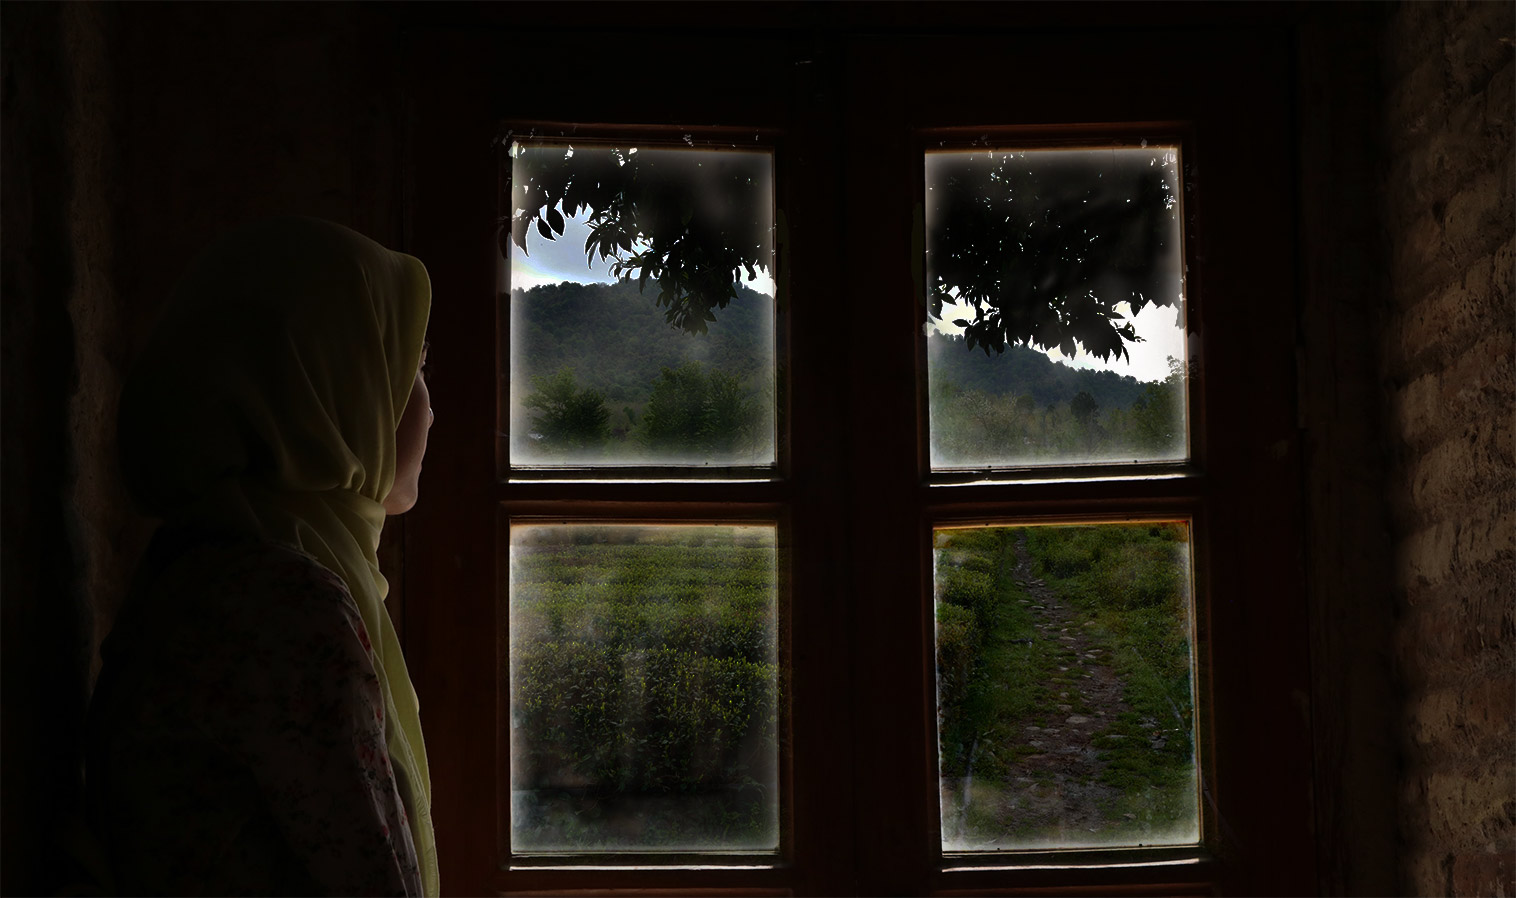
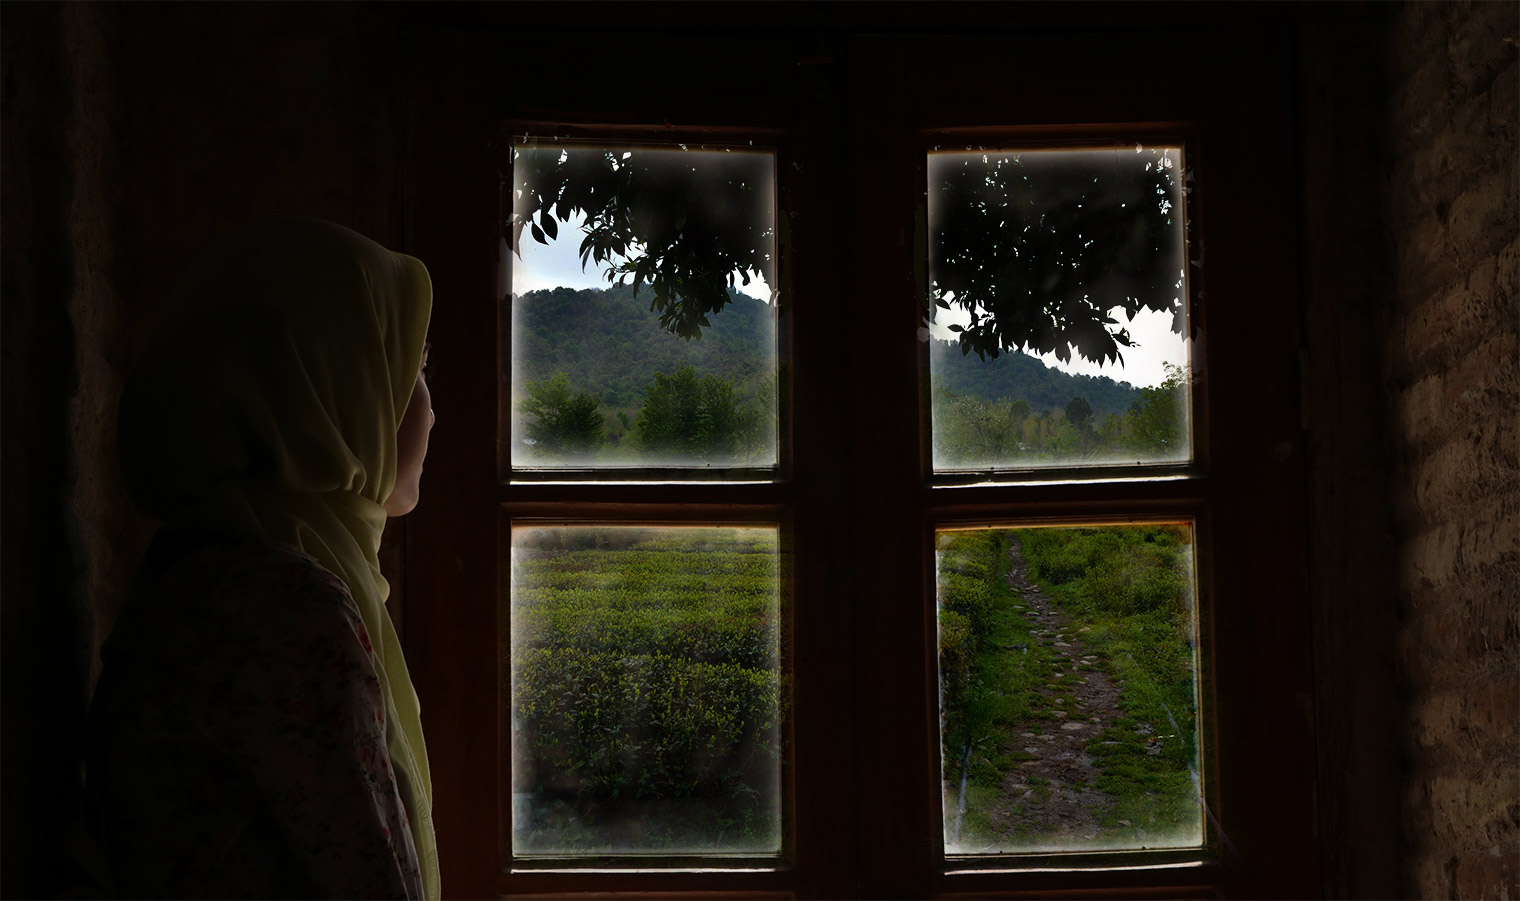
Editing photos and CSS

diff --git a/css/style.css b/css/style.css
@@ -1,30 +1,34 @@
 
 .body  {
-background-image: url("images/dynamic.png") , url("images/me.jpg");
+background-image: url("images/colour.jpg") , url("images/me.jpg");
 text-align: center;
 
 }
 
 .background {
-opacity: 0.4 ;
+opacity: 0.30 ;
 position: absolute;
-top: 1080px ;
+margin-top: 60% ;
+margin-left: -0.5%;
 
  }
  .background2 {
    position: absolute;
-   top: 0px ;
-   left: 0;
+   top: -80px ;
+   left: -1px;
  }
+
  .welcome{
    position:  relative;
-   font-family: "Gabriola", Times, serif;
-   text-align: left;
+   font-family: "Gabriola",sans-serif;
+   text-align: center;
    font-style: normal;
-   font-size: 37px;
-   top: 20px;
-   margin-left: 75px;
-   color: #0000BD;
+   font-weight: lighter;
+   font-size: 48px;
+   margin-top: 40%;
+   margin-left: -2%;
+   color: white;
+   width: 40%;
  }
  .name {
    position:  relative;
@@ -32,48 +36,59 @@ top: 1080px ;
    text-align: left;
    font-style: normal;
    font-size: 30px;
-   top: 0px;
-   margin-left: 77px;
-   color: #0000BD;
+   margin-top: -35%;
+   margin-right: 6%;
+   color: white;
+   line-height: 40px;
+   width: 10%;
+   float: right;
  }
 .Container{
-  margin-top: 0.5%;
+
 }
 .headline {
   position:  relative;
-  font-family: "Gabriola", Times, serif;
+  font-family: "Source sans pro", Times, serif;
   text-align: center;
   font-style: normal;
-  font-style: italic;
-  font-size: 70px;
-  top: -25px;
-  color:  #00D9E3;
-  left: -15px;
+  font-style: normal;
+  font-size: 30px;
+  margin-top: 5% ;
+  color:  #0C8786;
+  margin-left: 0.5%;
+  width: 40%;
+  height: 10%;
+  float: left;
 }
 .about {
   position:  relative;
-  font-family: "Gabriola", Times, serif;
+  font-family: "Source sans pro", Times, serif;
   text-align: left;
   font-style: normal;
-  font-size: 35px;
-  top: -40px;
+  font-size: 25px;
+  top: 25px;
   margin-left: 86px;
-  color: #0000BD;
+  color: #0C8786;
+  width: 30%;
 }
 .Paragraph {
+  opacity: 0.9;
   position:  relative;
   font-family: "Gabriola", Times, serif;
   text-align: left;
   font-style: normal;
   font-size: 25px;
-  top: -60px;
+  top: 30px;
   margin-left: 85px;
-  width: 86%;
+  width: 88%;
   text-align: justify;
-  color: #05FFE8;
+  color: black;
+}
+.intro {
+  margin-top: 9%;
 }
 .whole {
-  margin-top: 2.3%;
+  margin-top: 5%;
   margin-left: 50px;
   display: flex;
 }
@@ -82,23 +97,25 @@ top: 1080px ;
   font-family: "Megrim", times , serif;
   text-align: left;
   font-style: normal;
-  font-size: 40px;
+  font-size: 33px;
   top: 50px;
-  margin-left: 50px;
+  margin-left: 32px;
+  color: #5614E5;
 }
 
 .list {
   position:  relative;
-  font-family: "Gabriola", times , serif;
+  font-family: "sourse sans pro", sans-serif;
   text-align: left;
   font-style: normal;
-  font-size: 28px;
   top: 50px;
-  margin-left: 50px;
+  margin-left: 32px;
+  line-height: 35px;
+  font-size: 18px;
 }
 
 .link {
-  color: #5614E5;
+  color: black;
   top: 10px;
   text-decoration: none;
 }
@@ -107,24 +124,27 @@ top: 1080px ;
   font-family: "Megrim", times , serif;
   text-align: left;
   font-style: normal;
-  font-size: 40px;
+  font-size: 33px;
   top: 50px;
   margin-left: 50px;
+  color: #5614E5;
 }
 .list2 {
   position:  relative;
-  font-family: "Gabriola", times , serif;
+  font-family: "sourse sans pro", sans-serif;
   text-align: left;
   font-style: normal;
-  font-size: 28px;
+  line-height: 35px;
+  font-size: 18px;
   top: 50px;
   margin-left: 40px;
 }
 .link2 {
-  color:  #035740;
+  color:  black;
   top: 10px;
   text-decoration: none;
   margin-top: 10px;
+  color: black;
 }
 
 .Proposal {
@@ -132,21 +152,24 @@ top: 1080px ;
   font-family: "Megrim", times , serif;
   text-align: left;
   font-style: normal;
-  font-size: 40px;
+  font-size: 33px;
   top: 50px;
   margin-left: 30px;
+  color: #5614E5;
+
 }
 .list3 {
   position:  relative;
-  font-family: "Gabriola", times , serif;
+  font-family: "sourse sans pro", sans-serif;
   text-align: left;
   font-style: normal;
-  font-size: 28px;
+  line-height: 35px;
+  font-size: 18px;
   top: 50px;
   margin-left: 30px;
 }
 .link3 {
-  color: #E53B69 ;
+  color: black;
   top: 10px;
   text-decoration: none;
 }
@@ -155,10 +178,12 @@ top: 1080px ;
   float: left;
   width: 35%;
   padding: 5px;
+
 }
 .Container-2 {
   float: right;
   width: 25%;
   padding: 5px;
   margin-right: 30px;
+
 }

diff --git a/index.html b/index.html
@@ -9,20 +9,27 @@
 
 <div class="Container">
 
-<img class="background" src="images/dynamic.png" alt="images/dynamic.png">
+<img class="background" src="images/colour.jpg" alt="images/colour.jpg">
 <img class="background2" src="images/me.jpg" alt="images/me.jpg">
 
-<h1 class="welcome">Welcome to my website :)</h1>
-<h3 class="name">Zahra Ahmadi</h3>
-<h1 class="headline">CART351 Networks And Navigation</h1>
+<h3 class="name">Zahra Ahmadi
+Cart 351 - 2018
+</h3>
 
+<h1 class="welcome">Welcome to my website :)</h1>
+
+<div class="intro">
+<h1 class="headline">CART351 Networks And Navigation</h1>
 <h3 class="about">About me</h3>
 
-<p class="Paragraph">My name is Zahra and I am from Iran (the four seasons country of middle east and of course one of the most ancient ones...!) Actually, if I want to introduce myself, I like to start with my personality traits like being organized, motivated, determined and talented. Next, it would be great to mention my high school degree that is literature diploma.
-  But, now this question occurs to your mind that based on studying literature at high school why did I choose to study Computation Arts at university? The answer is here, having a strong interest in art, especially in painting and drawing since I was a little child. There fore, this strong tendency towards art and being an artist led me to start participating in
-  extracurricular painting courses which resulted in achievment of four remarkable skills including: pastel, black pencil drawing, colorful pencil drawing and oil painting. More over, after applying for my bachelor program, I decided to increase my computer skills; like, learning to work with some art-related-softwares( 3D MAX, Auto CAD).
+<p class="Paragraph">Hi! My name is Zahra and I am studing Computation Arts at Concordia University. Actually, if I want to introduce myself, I like to start with my personality traits like being organized, motivated, determined and talented. Next, it would be great to mention my high school degree that is literature diploma.
+  But, now this question may occur to your mind that based on studying literature at high school why did I choose to study Computation Arts at university? The answer is here, having a strong interest in art, especially in painting and drawing, since I was a little child. There fore, this strong tendency towards art and being an artist led me to start participating in
+  extracurricular painting courses which resulted in achievment of four remarkable skills including: pastel drawing, black pencil drawing, colorful pencil drawing and oil painting. More over, after applying for my bachelor program, I decided to increase my computer skills; like, learning to work with some art-related-softwares( 3D MAX, Auto CAD).
   And now for more familiarity with me, I think looking at a number of my main goals in my life can be useful. Honestly, being beneficial and influential in my society is my foremost goal. And secondly, applying all available facilities to move my society one more step toward a rosy future has the most importance in my priority list. As conclusion,
   I have a deep belief in this saying from Antoine Chekhov: a person is who they believe they are. I am doing my best to bring this saying to the realm of reality in my life. What about you? </p>
+
+</div>
+
 <div class="whole">
 
   <div class="Container-1">
